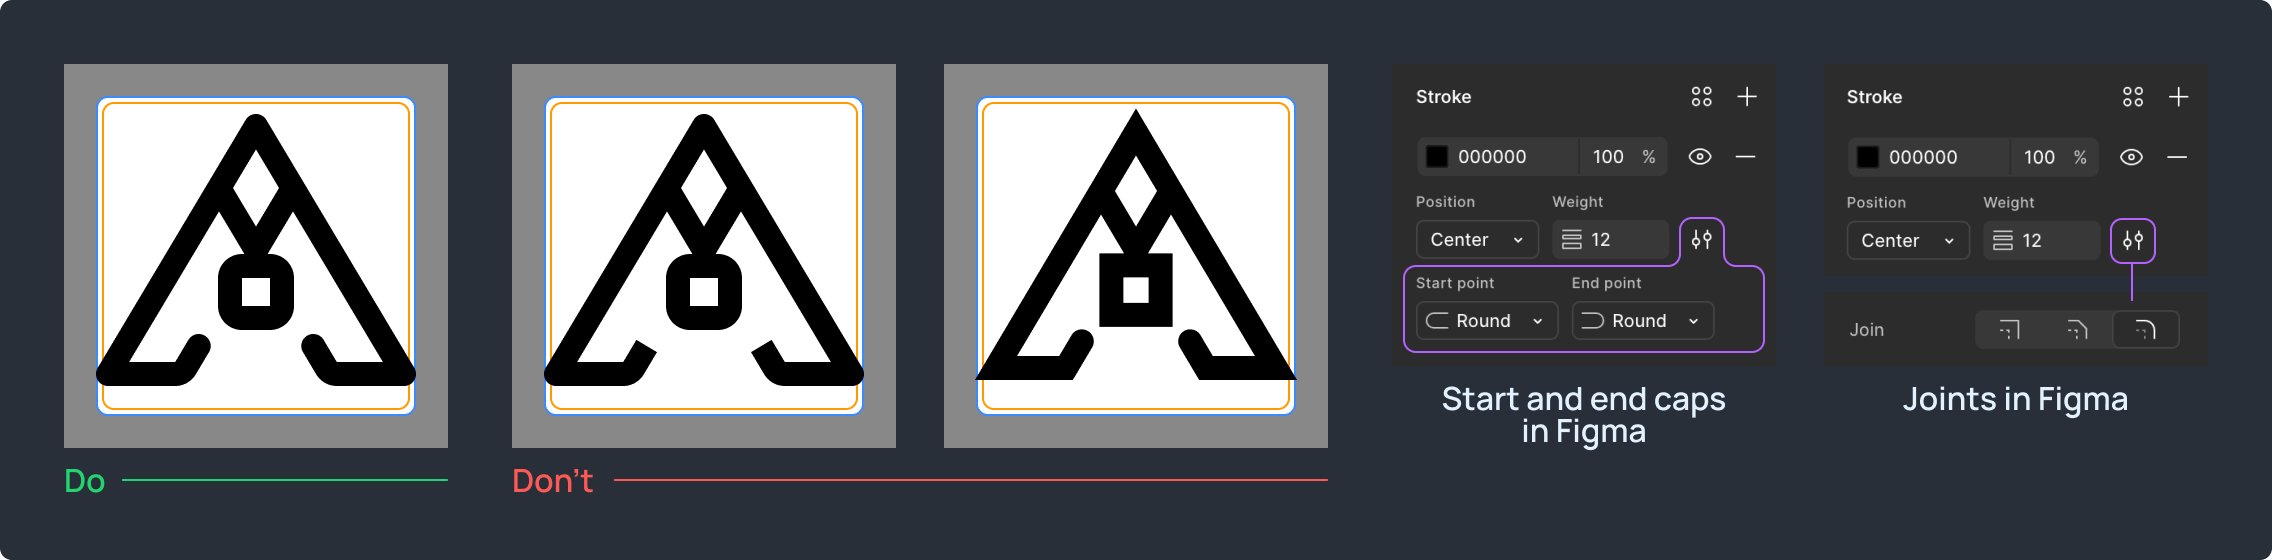
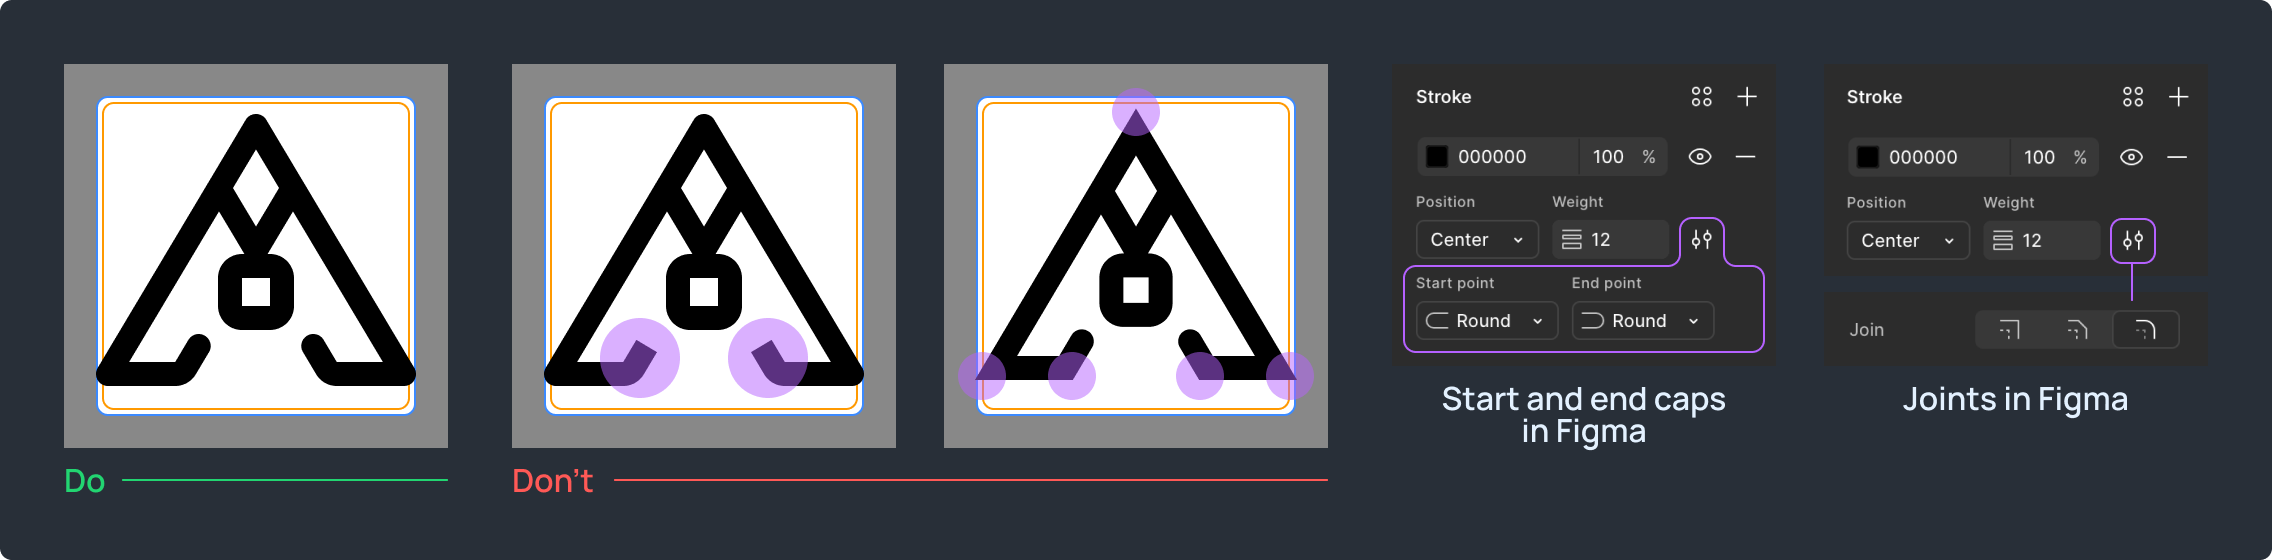
Lawnicons design guidelines 2.6

Changed region(s): [[0.25, 0.5464, 0.375, 0.7286], [0.4062, 0.6375, 0.5938, 0.7286], [0.4688, 0.1518, 0.5312, 0.2429]]

diff --git a/CONTRIBUTING.md b/CONTRIBUTING.md
@@ -40,6 +40,8 @@ The contributors who laid the foundations: [GrabsterTV](https://github.com/Grabs
 > The design guidelines are also available in Figma, you can practice there.  
 > [View in Figma](https://www.figma.com/community/file/1544976260626797886)
 
+[Common issues](https://github.com/LawnchairLauncher/lawnicons/blob/develop/docs/images/common-issues-to-fix.png)
+
 ### Approach
 
 The Lawnicons style is built on strong fundamentals and a commitment to quality. To minimize the need for rework, please read these guidelines carefully. Our main goal is to create high-quality icons that clearly represent their respective apps. To achieve this goal, you may sometimes need to redesign an icon from scratch.
@@ -53,11 +55,37 @@ Tips
 
 [Merged PRs](https://github.com/LawnchairLauncher/lawnicons/pulls?q=is%3Apr+is%3Amerged+label%3Aicons)
 
-### Best way to learn the design guidelines
+### Naming
 
-Open your icon image in Figma and apply the guidelines point by point. For mindfulness, focus on the common issues.  
+TL;DR
+```
+_2048.svg | 2048
+lawnicons.svg | Lawnicons
+habitacao_caixa.svg | Habitação Caixa
+beijing_card.svg | 北京一卡通 ~~ Beijing Card
+a_and_w.svg | A&amp;W
+```
 
-[Common issues](https://github.com/LawnchairLauncher/lawnicons/blob/develop/docs/images/common-issues-to-fix.png)
+**App name**  
+
+The main app name should be in its main language. It can be found in app stores or primary sources.
+
+Apps with non-English names require an additional name based on the English alphabet. At best it will be a localized official app name. If an app name is mostly made up of letters from the English alphabet, it doesn't need an additional one.
+
+Tips
+- Add localized names if available.
+- Transliterate non-English names when there are no localized ones.
+- Separate app names using `~~`. First, the main app name, then the additional one.
+- Delete things that aren't part of an app name.
+- Use the HTML character references for special symbols: for instance, `&amp;` instead of "&".
+
+**Icon name (drawable)**  
+
+Repeat the app name. Use `a–z`, `0–9`, and `_` for spaces. Insert `_` before a digit at the beginning of an icon name.
+
+Tips
+- When multiple apps are linked to the same icon, choose the most popular app name for it.
+- Replace non-English letters with English letters.
 
 ### Fundamentals
 
@@ -74,17 +102,27 @@ Open your icon image in Figma and apply the guidelines point by point. For mindf
 
 <img src="docs/images/fundamentals-2-abstract-icons.png" alt="2 Abstract icons" height="200" />
 
-`160 × 160 px`. The long side of an abstract icon should be `160 px`, but the other side could be smaller. In the case of curved boundaries, the margin of error is `<0.1 px`.  
+Determine before you start. The exact values are determined by the stroke's position, weight, and the graphic editor used. For a `12 px` center stroke in Figma, the icon content area is `148 × 148 px`.
 
-Note: Stroke weight and position affect icon size in Figma.  
+Tips
+- Follow the blue guides. 
+- Use existing icons as an example.
+- Aim for pixel-perfect.
+- The margin of error is `<0.1 px`.
 
 #### 3 Square icons
 
 <img src="docs/images/fundamentals-3-square-icons.png" alt="3 Square icons" height="200" />
 
-`154 × 154 px`. These are icons with `50%` or more of the edges running along the square.  
+Determine before you start. These are icons with 50% or more of the edges running along the square.
 
-Note: Stroke weight and position affect icon size in Figma.  
+The exact values are determined by the stroke's position, weight, and the graphic editor used. For a `12 px` center stroke in Figma, the square icon content area is `142 × 142 px`.
+
+Tips
+- Follow the golden guides. 
+- Use existing icons as an example.
+- Aim for pixel-perfect.
+- The margin of error is `<0.1 px`.
 
 #### 4 Color
 
@@ -151,7 +189,7 @@ Tips
 
 <img src="docs/images/quality-4-excessive-density.png" alt="4 Excessive density" height="200" />
 
-Keep at least `8 px` between lines.
+Keep at least `8 px` between lines, using an `8 × 8 px` rectangle to verify the spacing. It’s better to make the distance a little more.
 
 Tips
 - Move lines further apart.
@@ -206,33 +244,6 @@ Tips
 - The default location for the badge is the lower right corner, but a lot depends on the icon shape.
 - Avoid shifting icons for the sake of the badge.
 - Create an issue if there aren’t enough version badges.
-
-### Naming
-
-Start with examples, maybe there is a suitable one for you.  
-
-[Thousands of examples](app/assets/appfilter.xml)
-
-**App name**  
-
-The main app name should be in its main language. It can be found in app stores or primary sources.
-
-Apps with non-English names require an additional name based on the English alphabet. At best it will be a localized official app name. If an app name is mostly made up of letters from the English alphabet, it doesn't need an additional one.
-
-Tips
-- Add localized names if available.
-- Transliterate non-English names when there are no localized ones.
-- Separate app names using `~~`. First, the main app name, then the additional one.
-- Delete things that aren't part of an app name.
-- Use the HTML character references for special symbols: for instance, `&amp;` instead of "&".
-
-**Icon name (drawable)**  
-
-Repeat the app name. Use `a–z`, `0–9`, and `_` for spaces. Insert `_` before a digit at the beginning of an icon name.
-
-Tips
-- When multiple apps are linked to the same icon, choose the most popular app name for it.
-- Replace non-English letters with English letters.
 
 ## Icon contribution tools
 
